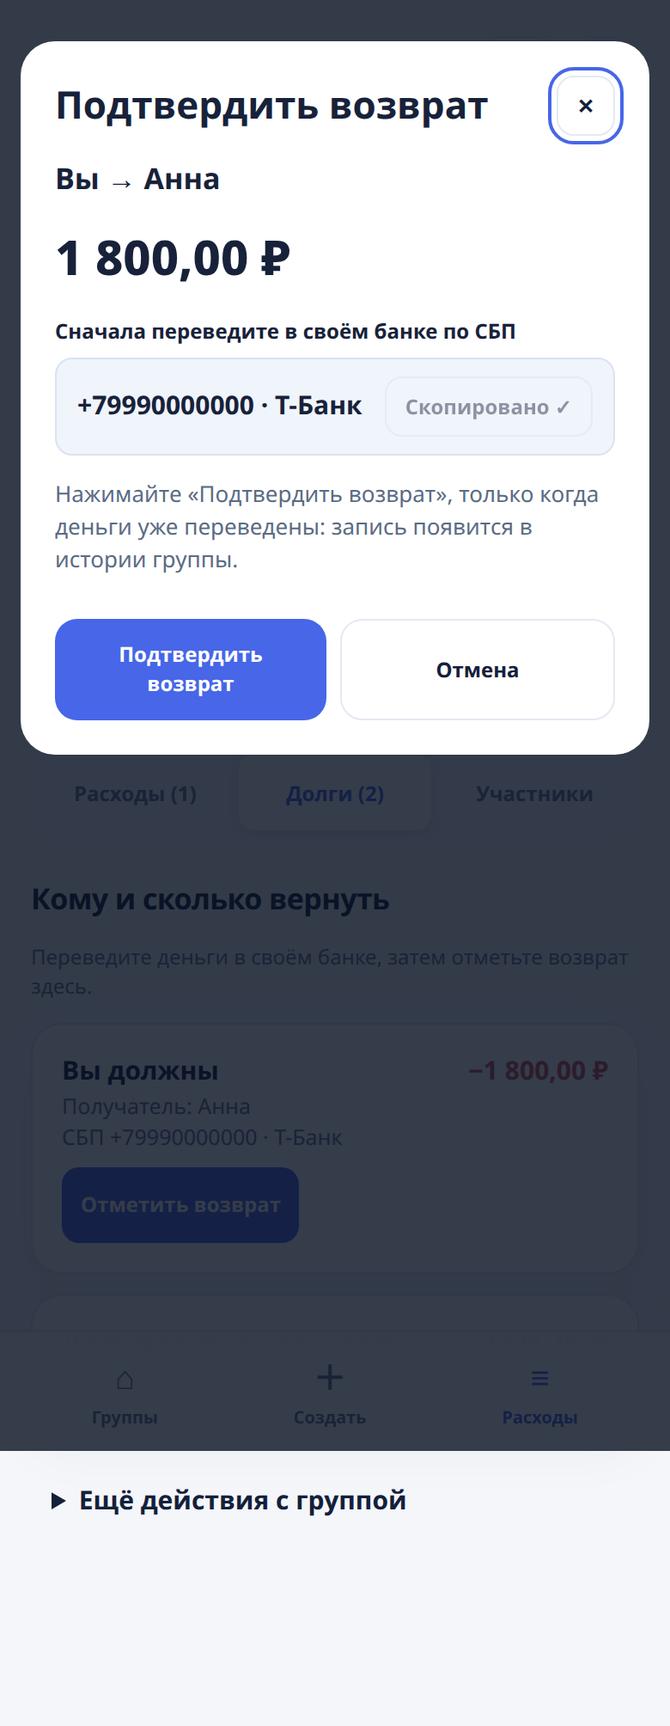
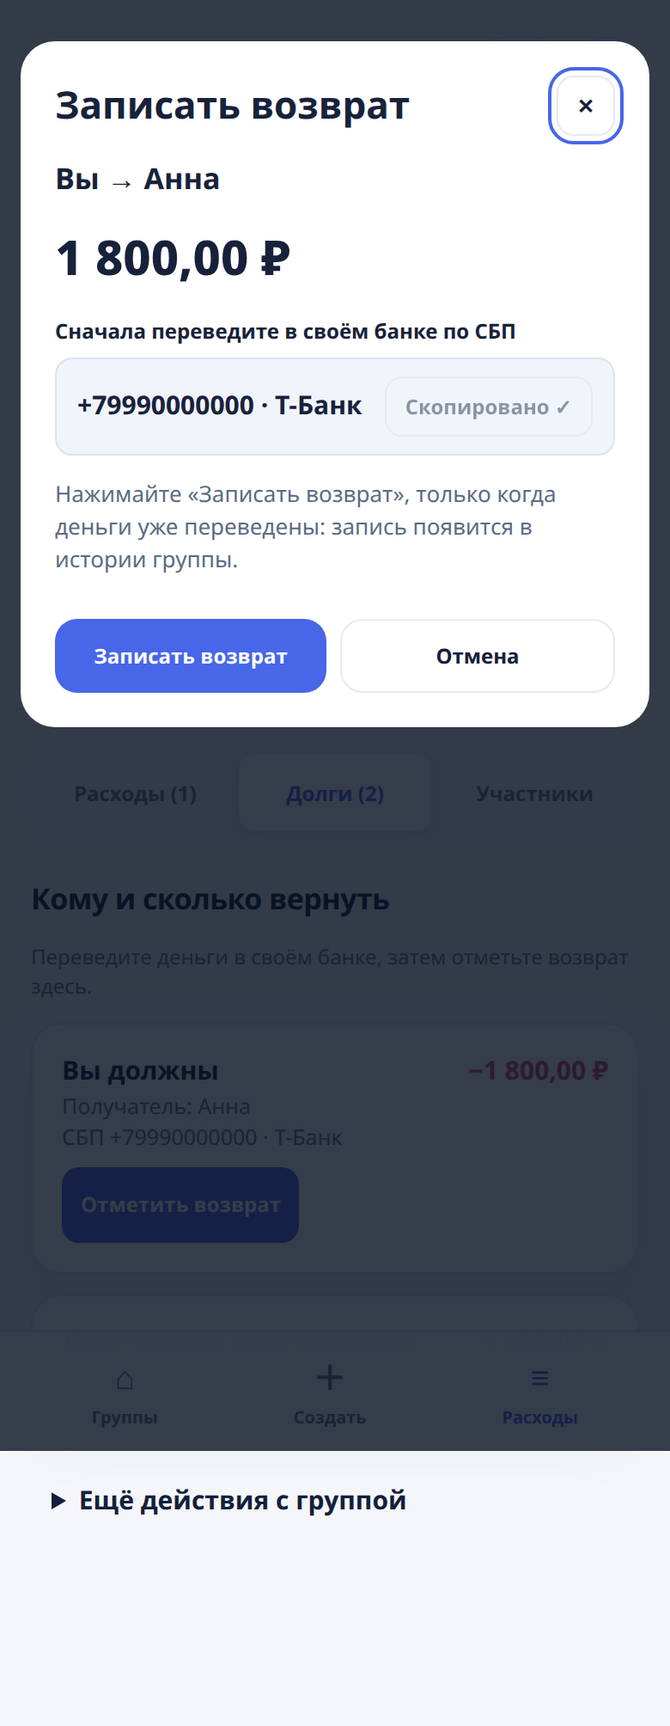
UX redesign round 3: exact save status, modal Back stack, no demo rounding fallback
- Save status: explicit rejection (reason kept, fields kept),
  lost response ('Не удалось проверить, сохранилась ли трата' +
  check-by-ID button, same expense ID on retry), confirmed-but-
  stale list ('Трата сохранена' banner + re-open group).
  Demo fail hooks ?demoFail=lostExpense|refreshFail (demo-only).
- Settle modal: tg.BackButton asks the modal back-stack first,
  closes the modal, stays on debts tab, returns focus to the
  opener; main button renamed 'Записать возврат'; confirm
  button disabled during the request; settlement-recovery.js
  contract untouched.
- demoView: fallback rounding removed, shared splitExpense only;
  expense_upsert validates splitExpense before mutating demo data.
- Summary: counterparty name only for a single transfer, else
  net total + transfer count ('2 перевода'); names/sums stay in
  'Долги' tab.
- Screenshots 31-36 new; 09, 26, 28, 29 refreshed. Checks:
  demo 35/35, Telegram simulation 21/21, round-2 regression 34/34.

Changed region(s): [[0.0308, 0.3705, 0.9846, 0.4631], [0.0923, 0.0309, 0.7077, 0.0926], [0.3077, 0.2779, 0.8923, 0.3088]]

diff --git a/web/native-ux.js b/web/native-ux.js
@@ -19,7 +19,7 @@ export const clearSbp=()=>new Promise(resolve=>{
  if(!cloud?.removeItems){resolve(false);return;}
  cloud.removeItems(['spliit_sbp_phone','spliit_sbp_bank'],e=>resolve(!e));
 });
-export function installNativeUX({S}){
+export function installNativeUX({S,closeTopModal}){
  const root=document.getElementById('app'),T=tg();
  // Header/background follow the Telegram theme (themeParams.bg_color)
  // instead of the previously hardcoded dark '#0f172a', which painted the
@@ -35,13 +35,15 @@ export function installNativeUX({S}){
  try{T?.onEvent?.('themeChanged',syncChrome);}catch{}
  let wasProtected=false,backBound=false;
  // System BackButton follows the router: shown on nested screens, hidden
- // on home. onClick does exactly what the HTML ‹ button does.
+ // on home. While a modal is open it closes the top modal first (the
+ // modal back-stack); only the next press navigates. onClick does exactly
+ // what the HTML ‹ button does when no modal is open.
  function syncBackButton(){
   try{
    const B=T?.BackButton;if(!B)return;
    const nested=['group','create','expense','join','invite','settings','pro'].includes(S.page);
    if(nested){
-    if(!backBound){B.onClick?.(()=>{root.querySelector('.back')?.click();});backBound=true;}
+    if(!backBound){B.onClick?.(()=>{if(typeof closeTopModal==='function'&&closeTopModal())return;root.querySelector('.back')?.click();});backBound=true;}
     B.show?.();
    }else B.hide?.();
   }catch{}

diff --git a/web/advanced-ui.js b/web/advanced-ui.js
@@ -20,7 +20,7 @@ async function shareFile(blob,name){
   }
   deliverBlob(blob,name);
 }
-export default function installEnhancements({S,call,render,openGroup}){
+export default function installEnhancements({S,call,render,openGroup,modalBack}){
   const root=document.getElementById('app');
   let items=[],modal=null,receiptName='Чек по позициям';
   function deco(){
@@ -176,7 +176,7 @@ export default function installEnhancements({S,call,render,openGroup}){
     }else if(e.target.id==='adv-fee'){try{recalc();}catch(err){alertUser(err.message);}}
   },true);
   const extras=installGroupExtras({S,call,render,openGroup});
-  const next=installNext({S,call,render,openGroup});
+  const next=installNext({S,call,render,openGroup,modalBack});
   const analytics=installAnalytics({S});
   const ai=installAiUI({S,call,onReceipt:draft=>openSplitter(draft)});
   const voice=installVoice({S,call});

diff --git a/web/next-features.js b/web/next-features.js
@@ -2,8 +2,8 @@ import {installNativeUX,saveSbp,loadSbp,clearSbp} from './native-ux.js';
 const money=(v,c)=>(v/100).toLocaleString('ru-RU',{minimumFractionDigits:2,maximumFractionDigits:2})+' '+c;
 const escapeHtml=x=>String(x??'').replace(/[&<>"']/g,ch=>({'&':'&amp;','<':'&lt;','>':'&gt;','"':'&quot;',"'":'&#39;'}[ch]));
 const say=text=>{const t=window.Telegram?.WebApp;if(t?.showAlert)t.showAlert(String(text));else alert(text)};
-export default function installNext({S,call,render,openGroup}){
- const root=document.querySelector('#app'),native=installNativeUX({S});
+export default function installNext({S,call,render,openGroup,modalBack}){
+ const root=document.querySelector('#app'),native=installNativeUX({S,closeTopModal:modalBack});
  function deco(){
   native.render();
   if(S.page==='group'&&S.group){

diff --git a/web/style.css b/web/style.css
@@ -141,5 +141,8 @@ h1[tabindex='-1']:focus { outline: none; }
 .allocation-total.error{color:var(--bad)}
 .toast.error{pointer-events:auto;cursor:pointer}
 .toast-close{margin-left:10px;font-weight:800}
+/* Round 3: precise save status in the expense form. */
+.save-status p{margin:8px 0}
+.save-status .actions{margin-top:10px}
 .spliit-kb-open .footbar{display:none}
 .spliit-kb-open .page{padding-bottom:calc(32px + env(safe-area-inset-bottom,0px))}

diff --git a/docs/ux-redesign/README.md b/docs/ux-redesign/README.md
@@ -208,3 +208,181 @@ Chromium headless): **34/34 проверок** — сценарии открыв
 состоит, — это тот же пробел, что в строке 6, и его стоит уточнить
 отдельно. Тексты бота из второго мнения не переносились — это не
 этот репозиторий.
+
+## Третий заход — точный статус сохранения, «Назад» в окне возврата, без запасного округления
+
+### 1. Точный статус сохранения (вместо «Не сохранено» при неизвестном исходе)
+
+Три случая различаются явно:
+
+- **Явный отказ** — ошибка валидации или отклонение сервером с
+  причиной. Панель в форме: «Трата «{название}» не сохранена.» +
+  причина + «Исправьте данные и отправьте ещё раз — введённое не
+  пропало.» Введённые поля сохраняются; дополнительно висит
+  постоянный тост ошибки (как во втором заходе).
+- **Потерянный ответ** — сеть оборвалась, запрос мог уйти. Панель
+  в форме с точным заголовком **«Не удалось проверить, сохранилась
+  ли трата»** + «Сеть оборвалась, когда мы отправляли трату
+  «{название}» ({сумма}). Возможно, она уже сохранена — сначала
+  проверьте, а потом отправляйте ещё раз.» Кнопка **«Проверить,
+  сохранилась ли трата»** — повторный запрос группы и поиск траты
+  по её ID: найдена → переход в группу, тост «Трата сохранена»;
+  не найдена → «Траты «{название}» в группе нет…» (можно отправить
+  ещё раз тем же номером); проверка недоступна → «Проверить не
+  удалось — сеть недоступна…». Поля и исходный ID траты
+  сохраняются: `S.newExpenseId` генерируется один раз при открытии
+  формы и после неудачной отправки не перегенерируется, форма не
+  сбрасывается. Подсказка о повторе привязана к операции:
+  «Повторная отправка идёт с тем же номером траты: второй строки
+  не появится, но запись может обновиться.»
+- **Запись подтверждена, список не обновился** — сохранение прошло,
+  а повторная загрузка группы упала. Форма закрывается, на домашнем
+  экране зелёный баннер **«Трата сохранена»** («Трата «{название}»
+  сохранена, но список группы не обновился.») с кнопками **«Открыть
+  группу»** (повторная загрузка; при неудаче баннер остаётся) и
+  «Скрыть». Плюс тост «Трата сохранена».
+
+**Честная оговорка.** Стабильный ID траты не даёт второй строки
+расхода, но повторная отправка может обновить запись и добавить
+событие в историю — «точно-один-раз» шире этого контракта не
+заявляется. Создание группы и вступление — отдельные контракты, их
+не трогали.
+
+**Демо-хуки отказа (только демо, только для проверок).**
+`?demoFail=lostExpense` — адаптер сначала записывает расход,
+затем возвращает сетевую ошибку (ровно сценарий «запрос мог
+уйти»); срабатывает один раз. `?demoFail=refreshFail` — после
+следующего успешного сохранения ломает ровно одну перезагрузку
+группы (не первую встречную `group_get`). Вне демо хуки
+недоступны: флаг читается из `location.search` демо-адаптера.
+
+### 2. Telegram «Назад» в окне возврата
+
+Стек «назад» для модалок (`modalBackStack` в `web/app.js`): при
+открытии окна возврата регистрируется обработчик закрытия;
+`tg.BackButton` сначала спрашивает стек, потом роутер
+(`web/native-ux.js`: `if(closeTopModal?.())return;`).
+Первое нажатие закрывает окно, оставляет пользователя на вкладке
+«Долги» и **возвращает фокус на кнопку, открывшую окно**
+(элемент запоминается при открытии; если его успел уничтожить
+перерендер — ищется замена по получателю). Следующее нажатие —
+обычная навигация. Открытие окна больше не перерисовывает
+страницу под ним (иначе перерендер уничтожал бы кнопку-открыватель
+до возврата фокуса).
+
+Основная кнопка окна переименована в **«Записать возврат»**
+(было «Подтвердить возврат»); рядом — пояснение, что перевод
+выполняется в банке: «Сначала переведите в своём банке по СБП» и
+«Нажимайте «Записать возврат», только когда деньги уже переведены:
+запись появится в истории группы.» Кнопка подтверждения
+блокируется на время запроса; контракт
+`settlement-recovery.js` не менялся (pending-запись в IndexedDB
+до сетевого вызова, dedup по ID, поток recover/cancel прежний).
+«Назад», Esc и «Отмена» не отправляют запись: проверено по
+отсутствию pending-строки в IndexedDB и по неизменности истории.
+
+### 3. Без запасного округления в демо
+
+Fallback в `demoView()` удалён: всегда вызывается общий
+`splitExpense`; некорректные сохранённые данные теперь дают
+видимую ошибку, а не тихий floor-пересчёт. В демо-адаптере
+`expense_upsert` сначала проверяет
+`splitExpense({id, amount, splitMode, paidFor})` и только потом
+меняет `D.expenses` — невалидные ручные суммы и проценты
+отклоняются до мутации: форма показывает причину, поля остаются
+заполненными, история и балансы не меняются. Тот же ID расхода —
+в форме и после записи.
+
+**Сводка при нескольких получателях.** Имя получателя показывается
+только при ровно одном переводе («Вы должны: Анна −1 800,00 ₽»).
+При нескольких — чистый итог и число переводов: **«Вы должны
+−3 600,00 ₽ · 2 перевода»** (формулировка зафиксирована).
+Имена и точные суммы — только во вкладке «Долги», в сводку список
+не разворачивается. Число переводов — `transferWord(n)`:
+1 «перевод», 2–4 «перевода», 5+ «переводов».
+
+### Скриншоты третьего захода
+
+Новые `31` — потерянный ответ (панель + кнопка проверки, поля
+сохранены), `32` — баннер «Трата сохранена» с «Открыть группу»,
+`33` — окно возврата с «Записать возврат», `34` — сводка
+«−3 600,00 ₽ · 2 перевода», `35` — отказ ручных процентов
+(перебор 20,00%, поля сохранены), `36` — доли 10,01 ₽ по ID
+участника до/после записи. Обновлены `09`, `26` (новая кнопка),
+`28`, `29`. `before/` не менялись.
+
+### Проверки третьего захода
+
+Чистая сборка: `npm run build` — зелёная.
+Три слоя проверки — **браузерное демо** (Playwright по собранному
+`dist/`), **имитация Telegram** (фейк `window.Telegram.WebApp`
+через `addInitScript`: themeParams, BackButton с show/hide/onClick
+и программным нажатием, safeAreaInsets) и **реальный WebView**
+(только вручную на телефоне — см. ниже).
+
+```bash
+# сервер (из корня репозитория, после npm run build):
+python -m http.server 8000 --bind 127.0.0.1 --directory dist
+# из ~/workspace/spleet-shots/ (Chromium headless shell 1187):
+node shots-round3.mjs      # демо-слой: 35/35
+node shots-round3-tg.mjs   # имитация Telegram: 21/21
+node shots-round2.mjs      # регрессия заходов 1–2: 34/34
+```
+
+Ожидаемые результаты: `31` — точный текст «Не удалось проверить…»,
+поля сохранены, кнопка проверки находит трату (тост «Трата
+сохранена», в истории одна строка); `31b` — повторная отправка с
+тем же ID даёт ровно одну строку; `32` — баннер «Трата сохранена»
++ «Открыть группу» показывает сохранённую трату; `33` — кнопка
+«Записать возврат», старого названия нет, примечание про банк на
+месте; `34` — сводка «−3 600,00 ₽ · 2 перевода», без имени, имена —
+во вкладке «Долги»; `35` — недобор BY_AMOUNT («Не хватает:
+4,01 ₽») и перебор BY_PERCENTAGE («Перебор: 20,00%») отклоняются,
+поля заполнены, история и балансы не меняются; `36` — доли 10,01 ₽
+по ID участника в превью и после записи совпадают, сумма ровно
+1001 коп. (только 333/334); имитация Telegram — Back закрывает
+модалку первым (фокус — на кнопке-открывателе, вкладка «Долги»,
+записи нет), второй Back — на список групп; Esc и «Отмена» — без
+записи; двойное нажатие на «Записать возврат» — одна запись;
+смена темы тёмная/светлая переключает `tg-dark`. В каждом прогоне
+единственная ошибка консоли — 404 `/favicon.ico` (было и до).
+Unit-тестов в репо нет — не выдумывались.
+
+**Что нашли сами проверки (исправлено в этом заходе).**
+(1) При правке был случайно удалён `errText` — поймали проверки
+31/32/35 (pageerror), восстановлен. (2) Открытие модалки
+перерисовывало страницу и уничтожало кнопку-открыватель — фокус
+не возвращался; открытие теперь без перерендера + запасной поиск
+кнопки по получателю. (3) Хук `refreshFail` срабатывал на первой
+же загрузке группы, а не на перезагрузке после сохранения —
+теперь вооружается при успешном сохранении.
+
+### Ручная проверка на телефоне (реальный WebView)
+
+Телефон в этом заходе недоступен — эти три шага остаются на
+реальном устройстве внутри Telegram (бот @spleetofficial_bot →
+Mini App, группа «Выходные у моря»):
+
+1. **«Назад» в окне возврата.** Откройте группу → «Долги» →
+   «Отметить возврат» → системная кнопка «Назад» (или жест).
+   Ожидается: окно закрылось, вы на вкладке «Долги», фокус на
+   кнопке «Отметить возврат». Второе нажатие — на список групп.
+2. **Смена темы.** В Telegram переключите тему устройства
+   тёмная/светлая (или тему приложения). Ожидается: цвета Mini App
+   меняются вместе с темой, текст остаётся читаемым, тёмная тема
+   не ломает светлые карточки.
+3. **«Сохранить» при открытой клавиатуре.** В форме «Добавить
+   трату» поставьте курсор в поле суммы (клавиатура открыта) и
+   нажмите «Добавить расход». Ожидается: нижняя панель (footbar)
+   не перекрывает кнопку, форма отправляется, клавиатура
+   закрывается после сохранения.
+
+### Что честно не сделано в третьем заходе
+
+- Реальный WebView не проверялся (нет телефона в этой сессии) —
+  см. шаги выше. Имитация Telegram проверяет логику BackButton и
+  темы, но не реальный WebView Telegram.
+- Строка 6 аудита второго мнения (приглашение/вступление —
+  имя/место уже состоящего участника) по-прежнему не доделывалась
+  (см. второй заход). Тексты бота не переносились — не этот
+  репозиторий.
